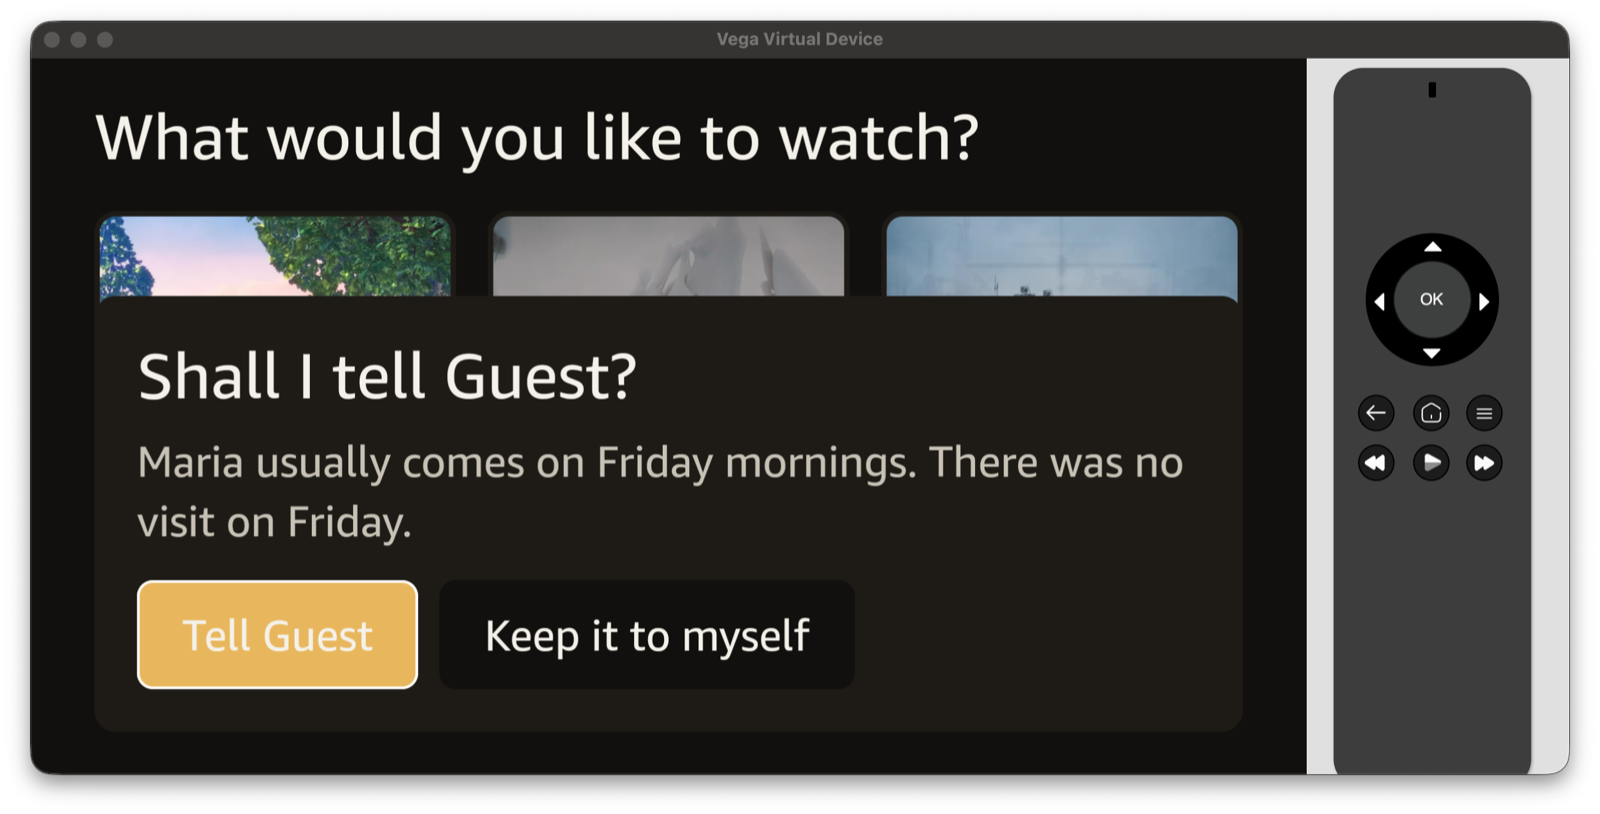
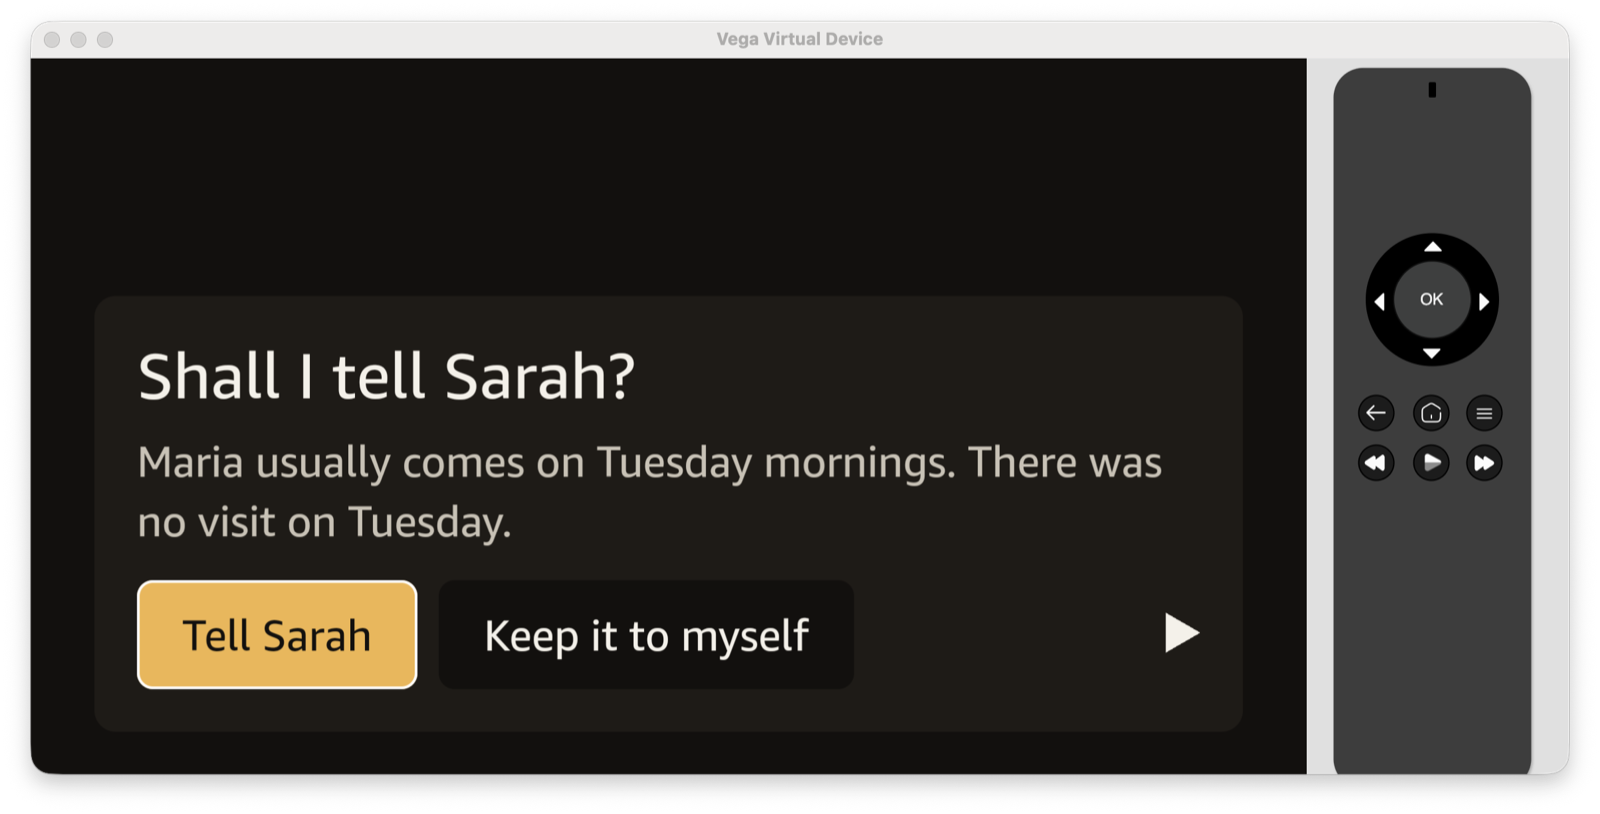
docs(screenshots): Shall I tell Sarah? and the Spanish hold card, as a demo account now shows them
Both were taken when a demo account was called Guest, so the pictures said
"Shall I tell Guest?" and "¿Pedir a Guest que le llame?". Retaken on the
Vega Virtual Device on 16 October in a fresh demo home, where the account is
Sarah. The hold card is now Vega's, not Fire OS's, and its caption says so.

diff --git a/README.md b/README.md
@@ -92,17 +92,15 @@ the household is a demo home.
 | **The door card**, over a film. Vega Virtual Device, 11 October 2026. | **The door, while another app is in front**: Wick's background service posts a system toast. Vega Virtual Device, 11 October 2026. |
 | ![A note from the family held at a calm point in Big Buck Bunny, with three replies](docs/screenshots/note-at-calm-point-fireos.png) | ![The calm-point map for Big Buck Bunny: three calm points at 1:29, 3:40 and 6:11, each with frames before and after the cut](docs/screenshots/calm-point-map.png) |
 | **A note at a calm point**: the film holds on a quiet cut while it is read. Fire OS build on the Android TV emulator, 12 October 2026. | **The calm-point map**, published from what Rekognition and ffmpeg measured. [Live page](https://rogerjeasy.github.io/wick/calm-points/), 12 October 2026. |
-| ![The question "Shall I tell Guest? Maria usually comes on Friday mornings. There was no visit on Friday." with Tell Guest and Keep it to myself](docs/screenshots/shall-i-tell-vega.png) | ![The question "Is this right? Maria was here on Tuesday from 12:22 pm to 1:00 pm." with Yes, that's right and No, that's not right](docs/screenshots/is-this-right-vega.png) |
-| **Shall I tell …?** A day unlike the usual is put to her first. Vega Virtual Device, 12 October 2026. | **The visit, witnessed.** Only her "Yes" confirms it. Vega Virtual Device, 13 October 2026. |
+| ![The question "Shall I tell Sarah? Maria usually comes on Tuesday mornings. There was no visit on Tuesday." with Tell Sarah and Keep it to myself](docs/screenshots/shall-i-tell-vega.png) | ![The question "Is this right? Maria was here on Tuesday from 12:22 pm to 1:00 pm." with Yes, that's right and No, that's not right](docs/screenshots/is-this-right-vega.png) |
+| **Shall I tell Sarah?** A day unlike the usual is put to her first. Vega Virtual Device, 16 October 2026. | **The visit, witnessed.** Only her "Yes" confirms it. Vega Virtual Device, 13 October 2026. |
 | ![The card "Your light is on." saying the family can see that her day has begun and nothing more, with Leave it on and Put it out for today](docs/screenshots/light-card-fireos.png) | ![After a film watched together: "That was Big Buck Bunny, with Sarah. What did you think of it?" with three answers](docs/screenshots/watch-together-credits-vega.png) |
 | **The light in the window.** Fire OS build on the Android TV emulator, 12 October 2026. | **Watch together**, at the credits. Vega Virtual Device, 12 October 2026. |
-| ![The family app on a laptop and on a phone, asked to look at the door: the picture from the stand-in doorbell, the vision model's sentence above it, and the three answers that go on her television](docs/screenshots/family-app-conversation.png) | ![The hold-for-Sarah card in Spanish: "¿Pedir a Guest que le llame?" with three buttons](docs/screenshots/hold-for-sarah-spanish-fireos.png) |
-| **The family app**, asked to look at the door: the picture, the vision model's sentence and her three answers, as a card. Laptop and phone widths, a demo guest against the deployed Wick server, 16 October 2026. | **Hold for Sarah, in Spanish.** Fire OS build on the Android TV emulator, 13 October 2026. |
+| ![The family app on a laptop and on a phone, asked to look at the door: the picture from the stand-in doorbell, the vision model's sentence above it, and the three answers that go on her television](docs/screenshots/family-app-conversation.png) | ![The hold-for-Sarah card in Spanish: "¿Pedir a Sarah que le llame?" with Sí, pedírselo a Sarah, Solo saludar and No, ahora no](docs/screenshots/hold-for-sarah-spanish-vega.png) |
+| **The family app**, asked to look at the door: the picture, the vision model's sentence and her three answers, as a card. Laptop and phone widths, a demo guest against the deployed Wick server, 16 October 2026. | **Hold for Sarah, in Spanish.** Vega Virtual Device, 16 October 2026. |
 
 "Margaret", "Sarah" and "Maria" are the demo home's fictional people: the
-resident, her daughter and her carer. A demo account is Sarah. Two screenshots
-above, "Shall I tell …?" and the Spanish hold card, were taken before demo
-accounts had her name, and say "Guest".
+resident, her daughter and her carer. Try the demo makes you Sarah.
 
 ## Why this needs Amazon
 
